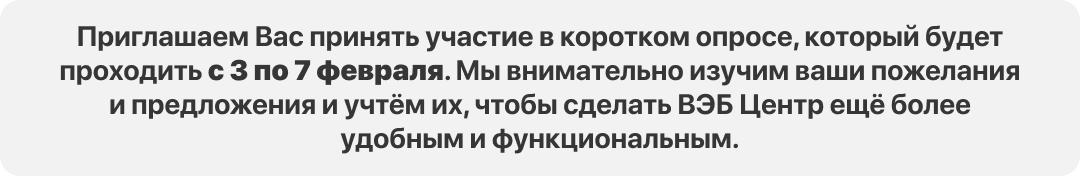
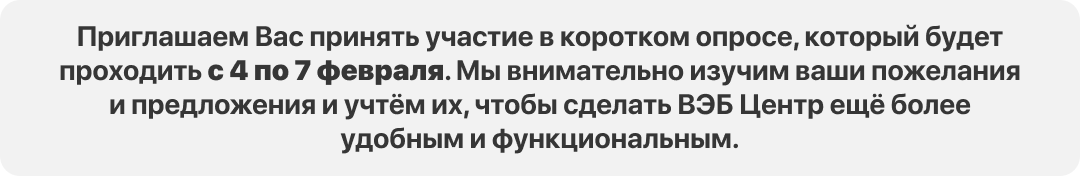
change veb-cente-36

Changed region(s): [[0.0611, 0.3409, 0.9472, 0.4545]]

diff --git a/veb-center-36/Спасибо, что помогаете нам становиться лучше!.html b/veb-center-36/Спасибо, что помогаете нам становиться лучше!.html
@@ -135,7 +135,7 @@
                             </tr>
                             <tr>
                                 <td align="left" style="font-size:0px;word-break:break-word;padding-bottom:24px;">
-                                    <div style="font-family:SF Pro Display, Arial;font-size:14px;font-weight:400;line-height:16.71px;text-align:left;color:#000000;">Мы хотим создать идеальное пространство для работы и&nbsp;вашего профессионального роста — и&nbsp;поэтому <span style="font-weight:700;">нам важно ваше мнение!</span></div>
+                                    <div style="font-family:SF Pro Display, Arial;font-size:14px;font-weight:400;line-height:16.71px;text-align:left;color:#000000;">Мы хотим создать идеальное пространство для работы и&nbsp;вашего профессионального развития — и&nbsp;поэтому <span style="font-weight:700;">нам важно ваше мнение!</span></div>
                                 </td>
                             </tr>
                             <tr>
@@ -144,7 +144,7 @@
                                         <tbody>
                                         <tr>
                                             <td>
-                                                <img alt="Приглашаем Вас принять участие в коротком опросе, который будет проходить с 3 по 7 февраля. Мы внимательно изучим ваши пожелания и предложения и учтём их, чтобы сделать ВЭБ Центр ещё более удобным и функциональным." height="auto" src="https://cp.unisender.com/ru/user_file?resource=images&user_id=5608985&name=vc-36-content-img-1.png" style="border:0;display:block;outline:none;text-decoration:none;height:auto;max-width:540px;width:100%;font-size:13px;" width="540" />
+                                                <img alt="Приглашаем Вас принять участие в коротком опросе, который будет проходить с 4 по 7 февраля. Мы внимательно изучим ваши пожелания и предложения и учтём их, чтобы сделать ВЭБ Центр ещё более удобным и функциональным." height="auto" src="https://cp.unisender.com/ru/user_file?resource=images&user_id=5608985&name=vc-36-content-img-1.png" style="border:0;display:block;outline:none;text-decoration:none;height:auto;max-width:540px;width:100%;font-size:13px;" width="540" />
                                             </td>
                                         </tr>
                                         </tbody>
@@ -158,7 +158,7 @@
                                         <tr>
                                             <td>
                                                 <a href="https://event-vebcenter.ru/form-2" target="_blank">
-                                                    <img alt="Нажмите здесь, чтобы пройти опрос" height="auto" src="https://cp.unisender.com/ru/user_file?resource=images&user_id=5608985&name=vc-36-button-1.png" style="border:0;display:block;outline:none;text-decoration:none;height:auto;max-width:540px;width:100%;font-size:13px;" width="540" />
+                                                    <img alt="Нажмите здесь, чтобы пройти опрос арендаторов" height="auto" src="https://cp.unisender.com/ru/user_file?resource=images&user_id=5608985&name=vc-36-button-1.png" style="border:0;display:block;outline:none;text-decoration:none;height:auto;max-width:540px;width:100%;font-size:13px;" width="540" />
                                                 </a>
                                             </td>
                                         </tr>
